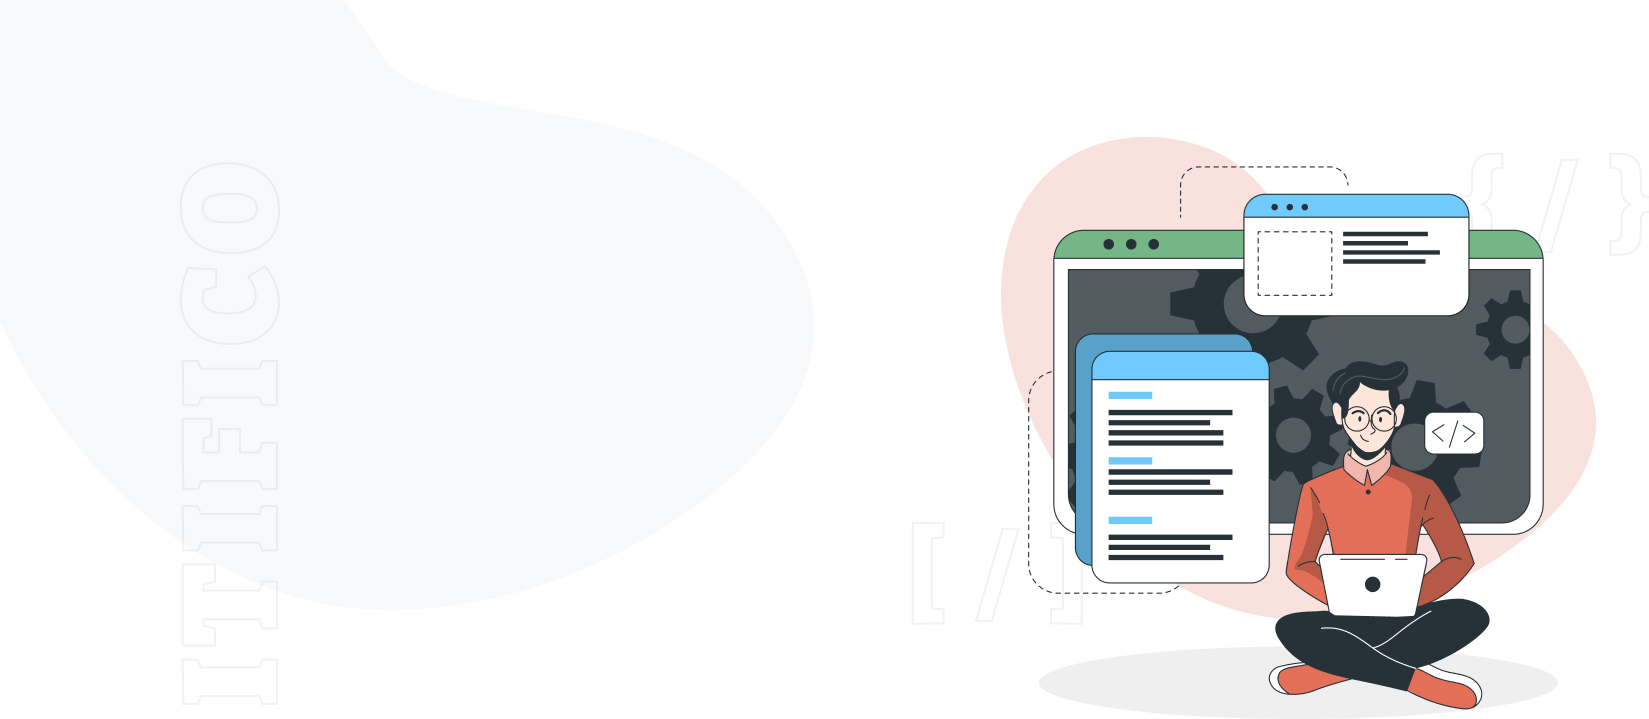
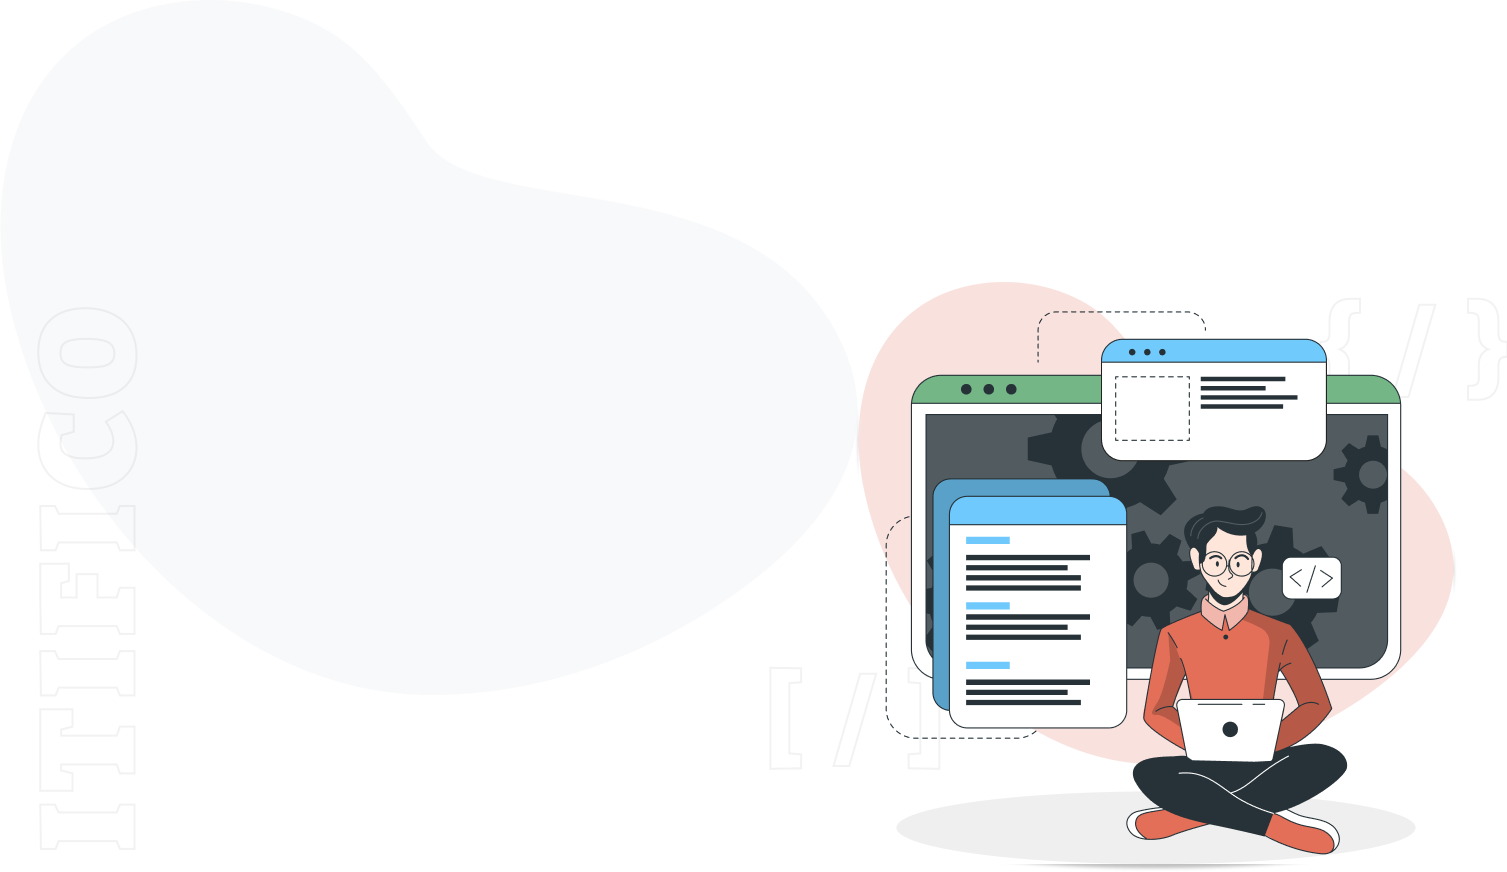
about_changes

Changed region(s): [[0.5614, 0.1836, 0.9668, 1.0]]

diff --git a/src/sass/about.scss b/src/sass/about.scss
@@ -2,40 +2,44 @@
 
 .about{
     padding: 56px 0 120px;
-    background-image: url("/src/assets/images/bg_main.png");
+    background-image: url(../assets/images/bg_main.png);
     background-repeat: no-repeat;
-    background-size: 100%;
-    background-position-x:-130px;
-    background-position-y:-30px;
-    @media (max-width:1200px){
-        background-position-x:0px;
-    }
+    background-size: auto;
+    background-position: 70% 165%;
     @media (max-width:1024px){
-        padding: 5px 0 50px;
-        background-position-y:-70px;
-        background-position-x:30px;
+        padding: 50px 0 50px;
+        background-image: url("../assets/images/bg_main_medium.png");
+        background-position: 100% 350%;
     }
     @media (max-width:768px){
         padding: 20px 0 80px;
-        background: #ffffff;
+        background: none;
     }
-    .wrapper{
+    .wrapper {
         display: flex;
         flex-direction: column;
-        max-width: 60%;
-        width: 100%;
+        @media (max-width:1024px){
+            display: grid;
+            grid-template-columns:auto 1fr;
+        }
         @media (max-width:768px){
-            max-width: 100%;
+            display: flex;
+            flex-direction: column;
+            align-items: center;
         }
         >h1{
             max-width: 636px;
             @include fontz($bit,$fst,700,60px,72px,$col1);
             letter-spacing: 0.005em;
-            grid-area: title;
             @media (max-width:1024px){
                 @include fontz($bit,$fst,700,40px,48px,$col1);
+                max-width: 306px;
+                grid-column: 1/2;
+                grid-row: 1/2;
             }
             @media (max-width:768px){
+                max-width: 100%;
+                width: 100%;
                 text-align: center;
                 @include fontz($bit,$fst,700,30px,36px,$col1);
             }
@@ -47,9 +51,10 @@
             @include fontz($mon,$fst,400,18px,26px,$col2);
             margin-top: 22px;
             max-width: 512px;
-            width: 100%;
-            grid-area: text;
             @media (max-width:1024px){
+                grid-column: 1/2;
+                grid-row: 2/3;
+                max-width: 278px;
                 margin-top: 30px;
                 @include fontz($mon,$fst,400,18px,24px,$col2);
             }
@@ -65,57 +70,38 @@
                 }
             }
         }
-    }
-    img{
-        display: none;
-        @media (max-width:768px){
-            display: block;
-            margin: 20px auto 0;
+        >img {
+            display: none;
+            @media (max-width:768px){
+                display: block;
+                margin-top: 20px;
+            }
         }
-    }
-    .container{
-        @media (max-width:1024px){
-            margin-top: 200px;
-            display: flex;
-            align-items: center;
-        }
-        @media (max-width:900px){
-            margin-top: 150px;
-        }
-        @media (max-width:840px){
-            margin-top: 110px;
-        }
-        @media (max-width:768px){
-            margin-top: 20px;
-            justify-content:center;
-        }
-        a{
+        >a{
             width: 227px;
             height: 60px;
             padding: 21px 0;
             text-align: center;
-            display: inline-block;
+//            display: inline-block;
             margin-top: 50px;
             @include fontz($bit,$fst,600,16px,19px,$col2);
             background-color: $orange;
             text-decoration: $td;
             color: $white;
             border-radius: 8px;
-            grid-area: button;
             @media (max-width:1024px){
-                margin-top: 0;
-                margin-right: 30px;
-            }
-            @media (max-width:768px){
-                width: 100%;
-                margin: 0;
+                grid-column: 1/2;
+                grid-row: 3/4;
+                margin-top: 50px;
+                width: 157px;
                 height: 50px;
-                padding: 16px;
-            }
-            >svg {
-                margin-left: 20px;
-                @media (max-width:1024px){
+                padding: 16px 0;
+                >svg{
                     display: none;
+                }
+                @media (max-width:768px){
+                    width: 100%;
+                    margin-top: 20px;
                 }
             }
         }
@@ -124,29 +110,169 @@
             align-items: center;
             margin-top: 78px;
             @media (max-width:1024px){
-                margin-top: 0;
-            }
-            @media (max-width:1024px){
-                width: calc(100% - 227px - 30px);
                 flex-direction: row-reverse;
+                margin-top: calc((50px + 50px - 30px) / 2) ;
+                grid-column: 2/3;
+                grid-row: 3/4;
             }
             @media (max-width:768px){
                 display: none;
             }
             >svg{
                 margin-right: 13px;
+                width: 20px;
+                height: 30px;
+                @media (max-width:1024px){
+                    margin: 0 0 0 13px;
+                }
             }
             >p{
                 @include fontz($mon,$fst,400,14px,14px,$col1);
                 margin-right: 30px;
+                @media (max-width:1024px){
+                    margin: 0 0 0 30px;
+                }
             }
             >span{
                 height: 1px;
                 max-width: 523px;
                 width: 100%;
+                width: 100%;
                 background-color: #D8DFDA;
             }
         }
-    } 
+    }
 }
-    
+
+
+
+
+//.wrapper{
+//        display: flex;
+//        flex-direction: column;
+//        max-width: 60%;
+//        width: 100%;
+//        @media (max-width:768px){
+//            max-width: 100%;
+//        }
+//        >h1{
+//            max-width: 636px;
+//            @include fontz($bit,$fst,700,60px,72px,$col1);
+//            letter-spacing: 0.005em;
+//            grid-area: title;
+//            @media (max-width:1024px){
+//                @include fontz($bit,$fst,700,40px,48px,$col1);
+//            }
+//            @media (max-width:768px){
+//                text-align: center;
+//                @include fontz($bit,$fst,700,30px,36px,$col1);
+//            }
+//            >span{
+//                color: $orange;
+//            }
+//        }
+//        >p {
+//            @include fontz($mon,$fst,400,18px,26px,$col2);
+//            margin-top: 22px;
+//            max-width: 512px;
+//            width: 100%;
+//            grid-area: text;
+//            @media (max-width:1024px){
+//                margin-top: 30px;
+//                @include fontz($mon,$fst,400,18px,24px,$col2);
+//            }
+//            @media (max-width:768px){
+//                text-align: center;
+//                max-width: 100%;
+//                margin-top: 13px;
+//                @include fontz($mon,$fst,400,16px,20px,$col2);
+//            }
+//            >span{
+//                @media (max-width:1024px){
+//                    display: none;
+//                }
+//            }
+//        }
+//    }
+//    img{
+//        display: none;
+//        @media (max-width:768px){
+//            display: block;
+//            margin: 20px auto 0;
+//        }
+//    }
+//    .container{
+//        @media (max-width:1024px){
+//            margin-top: 200px;
+//            display: flex;
+//            align-items: center;
+//        }
+//        @media (max-width:900px){
+//            margin-top: 150px;
+//        }
+//        @media (max-width:840px){
+//            margin-top: 110px;
+//        }
+//        @media (max-width:768px){
+//            margin-top: 20px;
+//            justify-content:center;
+//        }
+//        a{
+//            width: 227px;
+//            height: 60px;
+//            padding: 21px 0;
+//            text-align: center;
+//            display: inline-block;
+//            margin-top: 50px;
+//            @include fontz($bit,$fst,600,16px,19px,$col2);
+//            background-color: $orange;
+//            text-decoration: $td;
+//            color: $white;
+//            border-radius: 8px;
+//            grid-area: button;
+//            @media (max-width:1024px){
+//                margin-top: 0;
+//                margin-right: 30px;
+//            }
+//            @media (max-width:768px){
+//                width: 100%;
+//                margin: 0;
+//                height: 50px;
+//                padding: 16px;
+//            }
+//            >svg {
+//                margin-left: 20px;
+//                @media (max-width:1024px){
+//                    display: none;
+//                }
+//            }
+//        }
+//        .about__info-items{
+//            display: flex;
+//            align-items: center;
+//            margin-top: 78px;
+//            @media (max-width:1024px){
+//                margin-top: 0;
+//            }
+//            @media (max-width:1024px){
+//                width: calc(100% - 227px - 30px);
+//                flex-direction: row-reverse;
+//            }
+//            @media (max-width:768px){
+//                display: none;
+//            }
+//            >svg{
+//                margin-right: 13px;
+//            }
+//            >p{
+//                @include fontz($mon,$fst,400,14px,14px,$col1);
+//                margin-right: 30px;
+//            }
+//            >span{
+//                height: 1px;
+//                max-width: 523px;
+//                width: 100%;
+//                background-color: #D8DFDA;
+//            }
+//        }
+//    } 

diff --git a/src/index.html b/src/index.html
@@ -49,19 +49,17 @@
         <section class="about">
             <div class="content about__content">
                 <div class="wrapper">
-                    <h1 class="title about__info-title"><span>ITifico</span>  — платформа для вашего изучения кода</h1>
+                    <h1 class="about__info-title"><span>ITifico</span>  — платформа для вашего изучения кода</h1>
                     <p class="text about__info-text">Курсы для начинающих и продвинутых программистов, а также интересные статьи. <span>Присоединяйтесь и разрешите нам поддержать вас в вашей карьере</span> </p>
-                </div>
-                <img src="assets/images/bg_main_mobile.png" alt="1" width="256" height="250">
-                <div class="container">
+                    <img src="assets/images/bg_main_mobile.png" alt="1" width="256px" height="250px">
                     <a href="#" class="about__info-btn">Call to action
-                            <svg class="about__info-btn--arrow"  width="40" height="12" viewBox="0 0 40 12" fill="none" xmlns="http://www.w3.org/2000/svg">
+                        <svg class="about__info-btn--arrow"  width="40" height="12" viewBox="0 0 40 12" fill="none" xmlns="http://www.w3.org/2000/svg">
 <path d="M40 6.00012L34 12L34 7.18093L34 4.81915L34 9.53674e-07L40 6.00012Z" fill="white"/>
 <line y1="-1" x2="34.4444" y2="-1" transform="matrix(-1 -1.95661e-08 1.57269e-08 1 34.4453 7)" stroke="white" stroke-width="2"/>
 </svg>
-                        </a>
-                <div class="about__info-items">
-                            <svg class="about__info-item--mouse" width="20" height="30" viewBox="0 0 20 30" fill="none" xmlns="http://www.w3.org/2000/svg">
+                    </a>
+                    <div class="about__info-items">
+                        <svg class="about__info-item--mouse" width="20" height="30" viewBox="0 0 20 30" fill="none" xmlns="http://www.w3.org/2000/svg">
 <path d="M20 9.88233C20 6.35164 18.094 3.08882 14.9999 1.3241C11.9061 -0.441367 8.09377 -0.441367 5.00006 1.3241C1.90597 3.08932 0 6.35183 0 9.88233V20.1177C0 23.6484 1.90603 26.9112 5.00006 28.6759C8.0939 30.4414 11.9062 30.4414 14.9999 28.6759C18.094 26.9107 20 23.6482 20 20.1177V9.88233ZM18.5716 20.1177H18.5713C18.5713 23.1439 16.9379 25.9404 14.2857 27.4532C11.6339 28.9663 8.36642 28.9663 5.71441 27.4532C3.06228 25.9401 1.42881 23.1436 1.42881 20.1177V9.88233C1.42881 6.8561 3.06228 4.0596 5.71441 2.5468C8.36629 1.03368 11.6337 1.03368 14.2857 2.5468C16.9379 4.05991 18.5713 6.85642 18.5713 9.88233L18.5716 20.1177Z" fill="#23262D"/>
 <path d="M10 7.00001C9.4475 7.00001 9 7.34961 9 7.7812V12.2188C9 12.6502 9.44751 13 10 13C10.5525 13 11 12.6501 11 12.2188V7.7812C11 7.57411 10.8947 7.37521 10.707 7.22888C10.5197 7.08228 10.2651 7 9.99998 7L10 7.00001Z" fill="#E36F59"/>
 </svg>

diff --git a/src/sass/style.scss b/src/sass/style.scss
@@ -13,6 +13,9 @@
     box-sizing: border-box;
 }
 
+main{
+    overflow: hidden;
+}
 
 .content {
     max-width: calc(1230px + 16px * 2);
